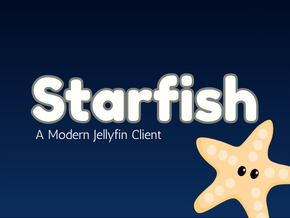
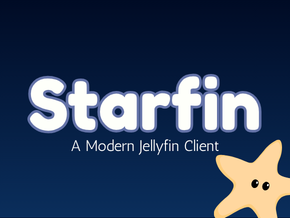
Rebrand from Starfish to Starfin. Includes image assets.

Changed region(s): [[0.0931, 0.3303, 1.0, 1.0]]

diff --git a/README.md b/README.md
@@ -8,9 +8,9 @@ Forks are part of open source but if your goal is to fix bugs, add features, or 
 
 I've been running Plex for well over 10+ years and with the direction that Plex is heading, I wanted to make a move. I tried Emby for 3 months and the Roku experience didn't have the level of polish I'm used to with Plex. Jellyfin was never an option for me because their Roku client is... well... let's just say, not great. Sure, there's Moonfin, and that's better, and I'm by no means taking a stab at Moonfin, but it's just not for me.
 
-So with the help of AI, and my senior software developer skills guiding it, I created Starfish. Now if anything with the UI sucks, there's no one to blame but me. As soon as this project had legs enough to stand on its own, browse and play media, I started using/testing it as my daily driver. And I soon found that I was leaving Plex behind now that I had a Jellyfin Roku client that aligned with my wants, needs, and desires. For any AI haters out there, you do your thing, I'll do mine :) But as a well seasoned senior software engineer, AI helps accelerate what you can accomplish. This project took about 6 weeks of HEAVY work, testing, guiding the architecture, the UI, and so on. Before AI, this project would have taken months, if not a year or longer (coding it in my spare time).
+So with the help of AI, and my senior software developer skills guiding it, I created Starfin. Now if anything with the UI sucks, there's no one to blame but me. As soon as this project had legs enough to stand on its own, browse and play media, I started using/testing it as my daily driver. And I soon found that I was leaving Plex behind now that I had a Jellyfin Roku client that aligned with my wants, needs, and desires. For any AI haters out there, you do your thing, I'll do mine :) But as a well seasoned senior software engineer, AI helps accelerate what you can accomplish. This project took about 6 weeks of HEAVY work, testing, guiding the architecture, the UI, and so on. Before AI, this project would have taken months, if not a year or longer (coding it in my spare time).
 
-OK, now that all my jib jab is out of the way, I present to you `Starfish` a modern Jellyfin client for Roku devices.
+OK, now that all my jib jab is out of the way, I present to you `Starfin`, a modern Jellyfin client for Roku devices.
 
 # CAVEATS
 - I've tested a library with around 2,000 movies and performance is great. I don't know how this thing will hold up with a library of 10,000 movies. That being said, if anyone out there tries this app and has a huge library, let me know how it goes.
@@ -21,20 +21,20 @@ The code for this app is NOT a fork of the Jellyfin Roku code repo. IMHO the Jel
 
 ## Fork renaming checklist
 
-If you fork this repository for your own Roku channel, replace the starter-kit
-names in these places:
+If you fork this repository for your own Roku channel, replace the Starfin names
+in these places:
 
-- `manifest`: `title=Roku Starter Kit`
-- `package.json`: `"name": "roku-starter-kit"`
-- `package.json`: `"description": "A starter kit for building a Roku application."`
-- `.vscode/launch.json`: `"name": "Roku Starter App"`
-- `scripts/deploy.mjs`: `const outFile = 'roku-starter-kit'`
-- `scripts/logviewer.mjs`: the console message that references the Roku Starter
-  Kit VS Code debug configuration.
+- `manifest`: `title=Starfin`
+- `package.json`: `"name": "starfin-roku"`
+- `package.json`: `"description": "A Jellyfin client for Roku."`
+- `.vscode/launch.json`: `"name": "Starfin"`
+- `scripts/deploy.mjs`: `const outFile = 'starfin'`
+- `scripts/logviewer.mjs`: the console message that references the Starfin VS
+  Code debug configuration.
 - `scripts/package.mjs`: the package filename template
-  `roku.starter.kit.<major>.<minor>.<build>`.
-- `source/store/AuthStore.brs`: the `ROKU_STARTER_APP` registry section name.
-- `source/store/SettingsStore.brs`: the `ROKU_STARTER_APP` registry section name.
+  `starfin.<major>.<minor>.<build>`.
+- `source/store/AuthStore.brs` and `source/store/SettingsStore.brs`: the
+  `STARFIN_ROKU` registry section name.
 
 Use an app-specific registry section name before shipping so auth and settings
 data for your fork do not collide with another app based on this starter kit.
@@ -112,7 +112,7 @@ Increments `build_version`, cleans, validates, and creates a Roku package.
 
 The package script uses `scripts/package.mjs` and writes the packaged channel to a versioned zip using the manifest version:
 
-`out/roku-starter-kit.<major_version>.<minor_version>.<build_version>.zip`
+`out/starfin.<major_version>.<minor_version>.<build_version>.zip`
 
 `npm run deploy`
 

diff --git a/.docs/preview-sheets.md b/.docs/preview-sheets.md
@@ -23,7 +23,7 @@ In this model:
 - Sheet index: which JPG contains that tile.
 - Row/column: where the tile lives inside the sheet grid.
 
-## Starfish Flow
+## Starfin Flow
 
 `VideoPlayer` owns the trickplay state. It reads Jellyfin's trickplay metadata, computes which five preview tiles should be shown while scrubbing, and sends those tiles to `PlaybackControls` as `thumbnailData`.
 
@@ -35,4 +35,4 @@ The center preview image is larger. The two images on each side are smaller and 
 
 ## Why This Matters
 
-Without preloading and load-status gating, Roku may show empty poster rectangles for a few seconds when scrubbing starts. The official Jellyfin Roku app avoids that by downloading preview sheets into `tmp:/` and rendering from local files. Starfish follows the same idea in a smaller component structure.
+Without preloading and load-status gating, Roku may show empty poster rectangles for a few seconds when scrubbing starts. The official Jellyfin Roku app avoids that by downloading preview sheets into `tmp:/` and rendering from local files. Starfin follows the same idea in a smaller component structure.

diff --git a/.docs/ffprobe-playback-timestamp-diagnostics.md b/.docs/ffprobe-playback-timestamp-diagnostics.md
@@ -167,5 +167,5 @@ or keyframe structure, rather than only in the container.
 
 These commands cannot prove what Roku displayed. They inspect the source file,
 not the client's decoded output. Correlating a timestamp anomaly with the
-visible jump position, or comparing it with Starfish's playback-position
+visible jump position, or comparing it with Starfin's playback-position
 diagnostics—provides the strongest evidence.

diff --git a/.docs/roku-debug-ip.md b/.docs/roku-debug-ip.md
@@ -13,7 +13,7 @@ setting before starting a new debug session.
    "brightscript.debug.host": "192.168.0.107"
    ```
 
-4. Stop any active debug session, then run the `Starfish` debug configuration
+4. Stop any active debug session, then run the `Starfin` debug configuration
    again.
 
 The VS Code debugger does not read `rokudeploy.json`. That file is used by the
